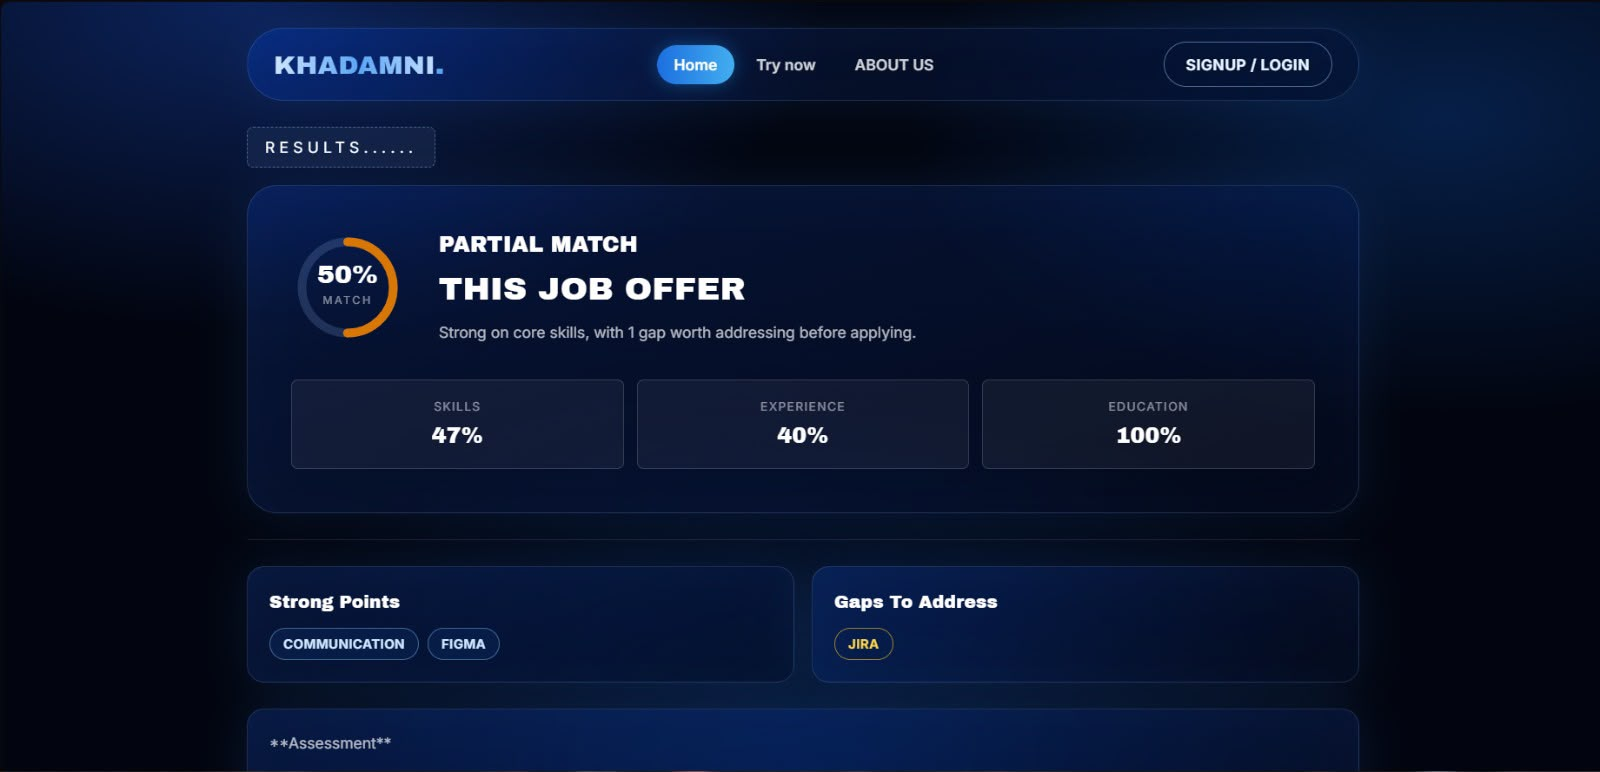
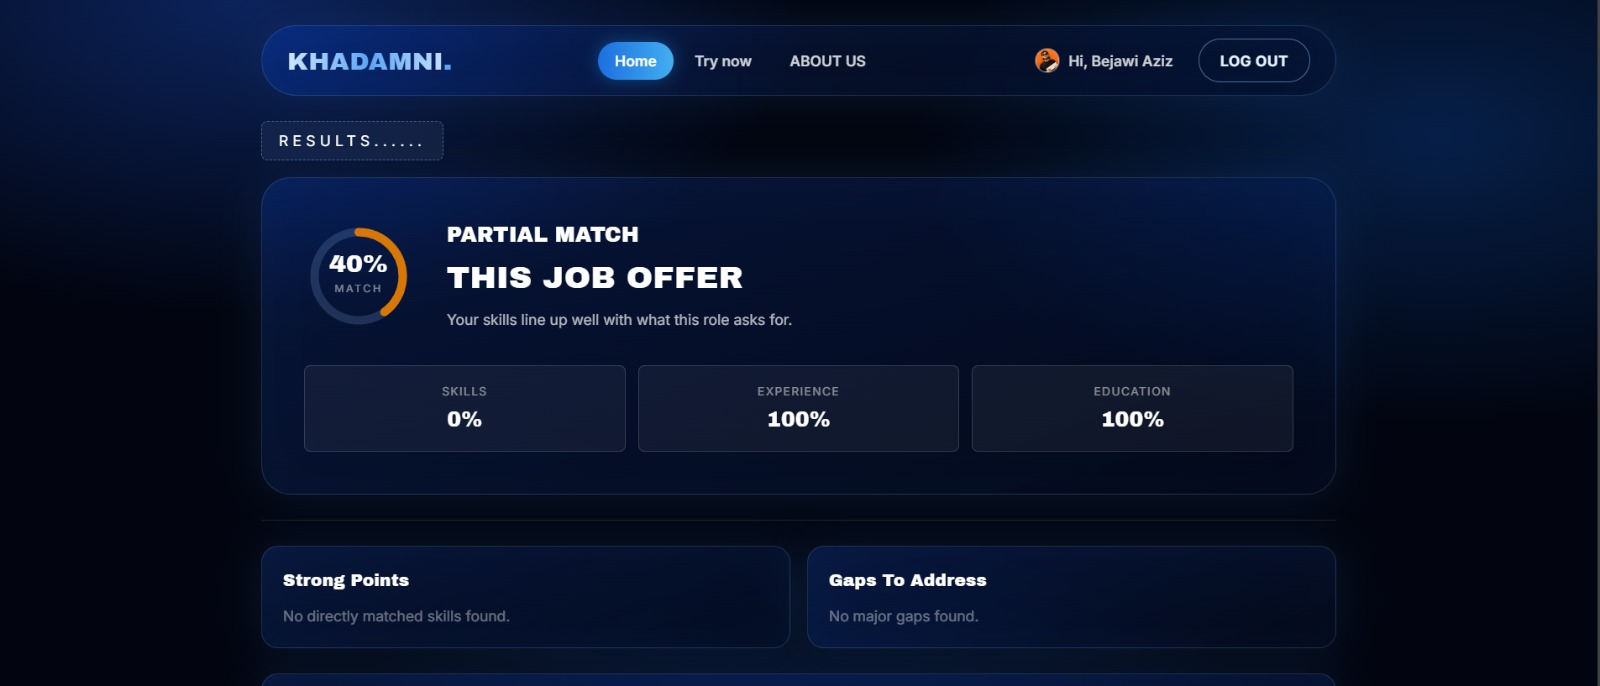
adding khadamni project screenshots

diff --git a/src/data/projects.js b/src/data/projects.js
@@ -12,13 +12,14 @@ export const projects = [
       "KHADAMNI compares a candidate's CV against a job description and returns a compatibility score, broken down into skills, experience, and education. CVs are parsed and matched using spaCy's PhraseMatcher, with scoring based on cosine similarity between extracted skill vectors. The app includes JWT authentication, profile management, email verification, and job suggestions pulled live from the Himalayas API. A glassmorphism React frontend sits on top of a FastAPI backend with a MySQL database.",
     stack: ["React", "Tailwind CSS", "FastAPI", "MySQL", "spaCy", "scikit-learn"],
     role: "Final-year project (PFE), full-stack developer",
-    link: "https://github.com",
+    link: "https://github.com/aziz23-11/khadamni",
     demoLink: "",
-    // Drop your screenshots in public/projects/khadamni/ and list them here.
-    // Each image just needs a path (served from /public) and an optional alt text.
     screenshots: [
-      // { src: "/projects/khadamni/1.png", alt: "KHADAMNI dashboard" },
-      // { src: "/projects/khadamni/2.png", alt: "CV compatibility score screen" },
+      { src: "/projects/khadamni/landing.jpeg", alt: "landing page" },
+      { src: "/projects/khadamni/score.jpeg", alt: "score page" },
+      { src: "/projects/khadamni/feedback.jpeg", alt: "feedback part" },
+      { src: "/projects/khadamni/profile.jpeg", alt: "profile page + job suggestion" },
+      { src: "/projects/khadamni/login.jpeg", alt: "login + signUp page" },
     ],
   },
   {